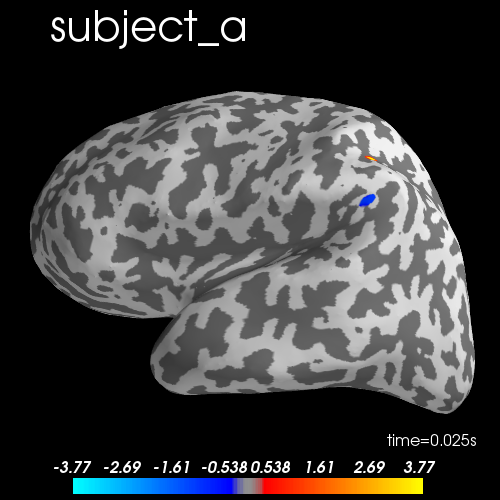
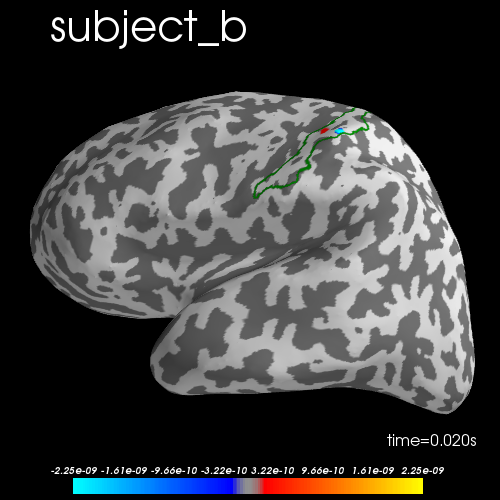
add test inverse

diff --git a/docs/auto_examples/plot_group_lasso.py b/docs/auto_examples/plot_group_lasso.py
@@ -70,12 +70,12 @@ for subj, ep in zip(["a", "b"], epochs_s):
     noise_cov_s.append(cov)
 
 
-f, axes = plt.subplots(1, 2, sharey=True)
-for ax, ev, nc, ll in zip(axes.ravel(), evoked_s, noise_cov_s, ["a", "b"]):
-    picks = mne.pick_types(ev.info, meg="grad")
-    ev.plot(picks=picks, axes=ax, noise_cov=nc, show=False)
-    ax.set_title("Subject %s" % ll, fontsize=15)
-plt.show()
+# f, axes = plt.subplots(1, 2, sharey=True)
+# for ax, ev, nc, ll in zip(axes.ravel(), evoked_s, noise_cov_s, ["a", "b"]):
+#     picks = mne.pick_types(ev.info, meg="grad")
+#     ev.plot(picks=picks, axes=ax, noise_cov=nc, show=False)
+#     ax.set_title("Subject %s" % ll, fontsize=15)
+# plt.show()
 
 #########################################################
 # Source and forward modeling
@@ -96,7 +96,7 @@ src_ref = group_model.get_src_reference(spacing=spacing,
 # and computes their forward operators.
 
 subjects = ["subject_a", "subject_b"]
-trans_fname_s = [meg_path + "%s/sef-trans.fif" % s for s in subjects]
+trans_fname_s = [meg_path + "%s/%s-trans.fif" % (s, s) for s in subjects]
 bem_fname_s = [subjects_dir + "%s/bem/%s-5120-bem-sol.fif" % (s, s)
                for s in subjects]
 n_jobs = 2
@@ -106,18 +106,18 @@ fwds = parallel(run_func(s, src_ref, info, trans, bem,  mindist=3)
                 for s, info, trans, bem in zip(subjects, raw_name_s,
                                                trans_fname_s, bem_fname_s))
 
-fwds = 2 * [fwds[1]]
-evoked_s = 2 * [evoked_s[1]]
-noise_cov_s = 2 * [noise_cov_s[1]]
+
 ###################################################
 # We can now compute the data of the inverse problem.
 # `group_info` is a dictionary that contains the selected channels and the
 # alignment maps between src_ref and the subjects which are required if you
 # want to plot source estimates on the brain surface of each subject.
+# We restric the time points around 20ms in order to reconstruct the sources of
+# the N20 response.
 
 gains, M, group_info = \
     group_model.compute_inv_data(fwds, src_ref, evoked_s, noise_cov_s,
-                                 ch_type="grad", tmin=0.02, tmax=0.04)
+                                 ch_type="grad", tmin=0.015, tmax=0.025)
 print("(# subjects, # channels, # sources) = ", gains.shape)
 print("(# subjects, # channels, # time points) = ", M.shape)
 
@@ -136,10 +136,23 @@ stcs, log = compute_group_inverse(gains, M, group_info,
                                   depth=0.9, alpha=0.5, return_stc=True,
                                   n_jobs=4)
 
-t = 0.025
+
+############################################
+# Visualization
+# -------------
+# Let's visualize the N20 response. The stimulus was applied on the right
+# hand, thus we only show the left hemisphere. The activation is exactly in
+# the Primary somatosensory cortex. We highlight the borders of the post
+# central gyrus.
+
+
+t = 0.02
 t_idx = stcs[0].time_as_index(t)
 view = "lateral"
 for stc, subject in zip(stcs, subjects):
+    g_post_central = mne.read_labels_from_annot(subject, "aparc.a2009s",
+                                                subjects_dir=subjects_dir,
+                                                regexp="G_postcentral-lh")[0]
     m = abs(stc.data[:group_info["n_sources"][0], t_idx]).max()
     surfer_kwargs = dict(
         clim=dict(kind='value', pos_lims=[0., 0.1 * m, m]),
@@ -148,3 +161,4 @@ for stc, subject in zip(stcs, subjects):
         smoothing_steps=5)
     brain = stc.plot(**surfer_kwargs, views=view)
     brain.add_text(0.1, 0.9, subject, "title")
+    brain.add_label(g_post_central, borders=True, color="green")

diff --git a/groupmne/tests/test_inverse.py b/groupmne/tests/test_inverse.py
@@ -5,9 +5,9 @@ import pytest
 from itertools import product
 
 
-@pytest.mark.parametrize("hemi time_independent",
+@pytest.mark.parametrize("hemi, time_independent",
                          product(["lh", "rh", "both"], [False, True]))
-def test_inverse(hemi):
+def test_inverse(hemi, time_independent):
     seed = 42
     rnd = np.random.RandomState(seed)
     n_features = 10
@@ -29,5 +29,5 @@ def test_inverse(hemi):
     coefs, log = compute_group_inverse(gains, M, group_info,
                                        method="grouplasso",
                                        depth=0.9, alpha=0.1, return_stc=False,
-                                       time_independent=time_independent
+                                       time_independent=time_independent,
                                        n_jobs=4)

diff --git a/docs/auto_examples/plot_group_lasso.rst b/docs/auto_examples/plot_group_lasso.rst
@@ -90,18 +90,15 @@ The data will be downloaded in the same location
         noise_cov_s.append(cov)
 
 
-    f, axes = plt.subplots(1, 2, sharey=True)
-    for ax, ev, nc, ll in zip(axes.ravel(), evoked_s, noise_cov_s, ["a", "b"]):
-        picks = mne.pick_types(ev.info, meg="grad")
-        ev.plot(picks=picks, axes=ax, noise_cov=nc, show=False)
-        ax.set_title("Subject %s" % ll, fontsize=15)
-    plt.show()
+    # f, axes = plt.subplots(1, 2, sharey=True)
+    # for ax, ev, nc, ll in zip(axes.ravel(), evoked_s, noise_cov_s, ["a", "b"]):
+    #     picks = mne.pick_types(ev.info, meg="grad")
+    #     ev.plot(picks=picks, axes=ax, noise_cov=nc, show=False)
+    #     ax.set_title("Subject %s" % ll, fontsize=15)
+    # plt.show()
 
 
 
-
-.. image:: /auto_examples/images/sphx_glr_plot_group_lasso_001.png
-    :class: sphx-glr-single-img
 
 
 .. rst-class:: sphx-glr-script-out
@@ -194,22 +191,6 @@ The data will be downloaded in the same location
             generated with autossp-1.0.1 (1 x 306) active
             generated with autossp-1.0.1 (1 x 306) active
             generated with autossp-1.0.1 (1 x 306) active
-    Computing data rank from covariance with rank=None
-        Using tolerance 2.6e-13 (2.2e-16 eps * 204 dim * 5.8  max singular value)
-        Estimated rank (grad): 201
-        GRAD: rank 201 computed from 204 data channels with 3 projectors
-    Computing data rank from covariance with rank=None
-        Using tolerance 1.1e-14 (2.2e-16 eps * 102 dim * 0.48  max singular value)
-        Estimated rank (mag): 97
-        MAG: rank 97 computed from 102 data channels with 5 projectors
-    Computing data rank from covariance with rank=None
-        Using tolerance 2.2e-13 (2.2e-16 eps * 204 dim * 4.9  max singular value)
-        Estimated rank (grad): 201
-        GRAD: rank 201 computed from 204 data channels with 3 projectors
-    Computing data rank from covariance with rank=None
-        Using tolerance 5.2e-15 (2.2e-16 eps * 102 dim * 0.23  max singular value)
-        Estimated rank (mag): 97
-        MAG: rank 97 computed from 102 data channels with 5 projectors
 
 
 Source and forward modeling
@@ -276,7 +257,7 @@ and computes their forward operators.
 
 
     subjects = ["subject_a", "subject_b"]
-    trans_fname_s = [meg_path + "%s/sef-trans.fif" % s for s in subjects]
+    trans_fname_s = [meg_path + "%s/%s-trans.fif" % (s, s) for s in subjects]
     bem_fname_s = [subjects_dir + "%s/bem/%s-5120-bem-sol.fif" % (s, s)
                    for s in subjects]
     n_jobs = 2
@@ -286,9 +267,7 @@ and computes their forward operators.
                     for s, info, trans, bem in zip(subjects, raw_name_s,
                                                    trans_fname_s, bem_fname_s))
 
-    fwds = 2 * [fwds[1]]
-    evoked_s = 2 * [evoked_s[1]]
-    noise_cov_s = 2 * [noise_cov_s[1]]
+
 
 
 
@@ -299,6 +278,8 @@ We can now compute the data of the inverse problem.
 `group_info` is a dictionary that contains the selected channels and the
 alignment maps between src_ref and the subjects which are required if you
 want to plot source estimates on the brain surface of each subject.
+We restric the time points around 20ms in order to reconstruct the sources of
+the N20 response.
 
 
 .. code-block:: default
@@ -306,7 +287,7 @@ want to plot source estimates on the brain surface of each subject.
 
     gains, M, group_info = \
         group_model.compute_inv_data(fwds, src_ref, evoked_s, noise_cov_s,
-                                     ch_type="grad", tmin=0.02, tmax=0.04)
+                                     ch_type="grad", tmin=0.015, tmax=0.025)
     print("(# subjects, # channels, # sources) = ", gains.shape)
     print("(# subjects, # channels, # time points) = ", M.shape)
 
@@ -323,8 +304,8 @@ want to plot source estimates on the brain surface of each subject.
     No patch info available. The standard source space normals will be employed in the rotation to the local surface coordinates....
         Changing to fixed-orientation forward solution with surface-based source orientations...
         [done]
-    Mapping lh fsaverage -> subject_b (nearest neighbor)...
-    Mapping rh fsaverage -> subject_b (nearest neighbor)...
+    Mapping lh fsaverage -> subject_a (nearest neighbor)...
+    Mapping rh fsaverage -> subject_a (nearest neighbor)...
         No patch info available. The standard source space normals will be employed in the rotation to the local surface coordinates....
         Changing to fixed-orientation forward solution with surface-based source orientations...
         [done]
@@ -332,7 +313,7 @@ want to plot source estimates on the brain surface of each subject.
     Mapping rh fsaverage -> subject_b (nearest neighbor)...
         Created an SSP operator (subspace dimension = 3)
     Computing data rank from covariance with rank=None
-        Using tolerance 2.2e-13 (2.2e-16 eps * 204 dim * 4.9  max singular value)
+        Using tolerance 2.6e-13 (2.2e-16 eps * 204 dim * 5.8  max singular value)
         Estimated rank (grad): 201
         GRAD: rank 201 computed from 204 data channels with 3 projectors
         Setting small GRAD eigenvalues to zero (without PCA)
@@ -345,7 +326,7 @@ want to plot source estimates on the brain surface of each subject.
         Setting small GRAD eigenvalues to zero (without PCA)
         Created the whitener using a noise covariance matrix with rank 201 (3 small eigenvalues omitted)
     (# subjects, # channels, # sources) =  (2, 204, 5124)
-    (# subjects, # channels, # time points) =  (2, 204, 61)
+    (# subjects, # channels, # time points) =  (2, 204, 31)
 
 
 Solve the inverse problems
@@ -366,10 +347,32 @@ the sources are 0.
                                       depth=0.9, alpha=0.5, return_stc=True,
                                       n_jobs=4)
 
-    t = 0.025
+
+
+
+
+
+
+
+Visualization
+-------------
+Let's visualize the N20 response. The stimulus was applied on the right
+hand, thus we only show the left hemisphere. The activation is exactly in
+the Primary somatosensory cortex. We highlight the borders of the post
+central gyrus.
+
+
+.. code-block:: default
+
+
+
+    t = 0.02
     t_idx = stcs[0].time_as_index(t)
     view = "lateral"
     for stc, subject in zip(stcs, subjects):
+        g_post_central = mne.read_labels_from_annot(subject, "aparc.a2009s",
+                                                    subjects_dir=subjects_dir,
+                                                    regexp="G_postcentral-lh")[0]
         m = abs(stc.data[:group_info["n_sources"][0], t_idx]).max()
         surfer_kwargs = dict(
             clim=dict(kind='value', pos_lims=[0., 0.1 * m, m]),
@@ -378,6 +381,7 @@ the sources are 0.
             smoothing_steps=5)
         brain = stc.plot(**surfer_kwargs, views=view)
         brain.add_text(0.1, 0.9, subject, "title")
+        brain.add_label(g_post_central, borders=True, color="green")
 
 
 
@@ -386,21 +390,33 @@ the sources are 0.
 
     *
 
-      .. image:: /auto_examples/images/sphx_glr_plot_group_lasso_002.png
+      .. image:: /auto_examples/images/sphx_glr_plot_group_lasso_001.png
             :class: sphx-glr-multi-img
 
     *
 
-      .. image:: /auto_examples/images/sphx_glr_plot_group_lasso_003.png
+      .. image:: /auto_examples/images/sphx_glr_plot_group_lasso_002.png
             :class: sphx-glr-multi-img
 
 
+.. rst-class:: sphx-glr-script-out
+
+ Out:
+
+ .. code-block:: none
+
+    Reading labels from parcellation...
+       read 1 labels from /Users/hichamjanati/mne_data/HF_SEF/subjects/subject_a/label/lh.aparc.a2009s.annot
+       read 0 labels from /Users/hichamjanati/mne_data/HF_SEF/subjects/subject_a/label/rh.aparc.a2009s.annot
+    Reading labels from parcellation...
+       read 1 labels from /Users/hichamjanati/mne_data/HF_SEF/subjects/subject_b/label/lh.aparc.a2009s.annot
+       read 0 labels from /Users/hichamjanati/mne_data/HF_SEF/subjects/subject_b/label/rh.aparc.a2009s.annot
 
 
 
 .. rst-class:: sphx-glr-timing
 
-   **Total running time of the script:** ( 2 minutes  3.400 seconds)
+   **Total running time of the script:** ( 2 minutes  11.602 seconds)
 
 
 .. _sphx_glr_download_auto_examples_plot_group_lasso.py:

diff --git a/docs/auto_examples/sg_execution_times.rst b/docs/auto_examples/sg_execution_times.rst
@@ -5,6 +5,6 @@
 
 Computation times
 =================
-**02:03.400** total execution time for **auto_examples** files:
+**02:11.602** total execution time for **auto_examples** files:
 
-- **02:03.400**: :ref:`sphx_glr_auto_examples_plot_group_lasso.py` (``plot_group_lasso.py``)
+- **02:11.602**: :ref:`sphx_glr_auto_examples_plot_group_lasso.py` (``plot_group_lasso.py``)
